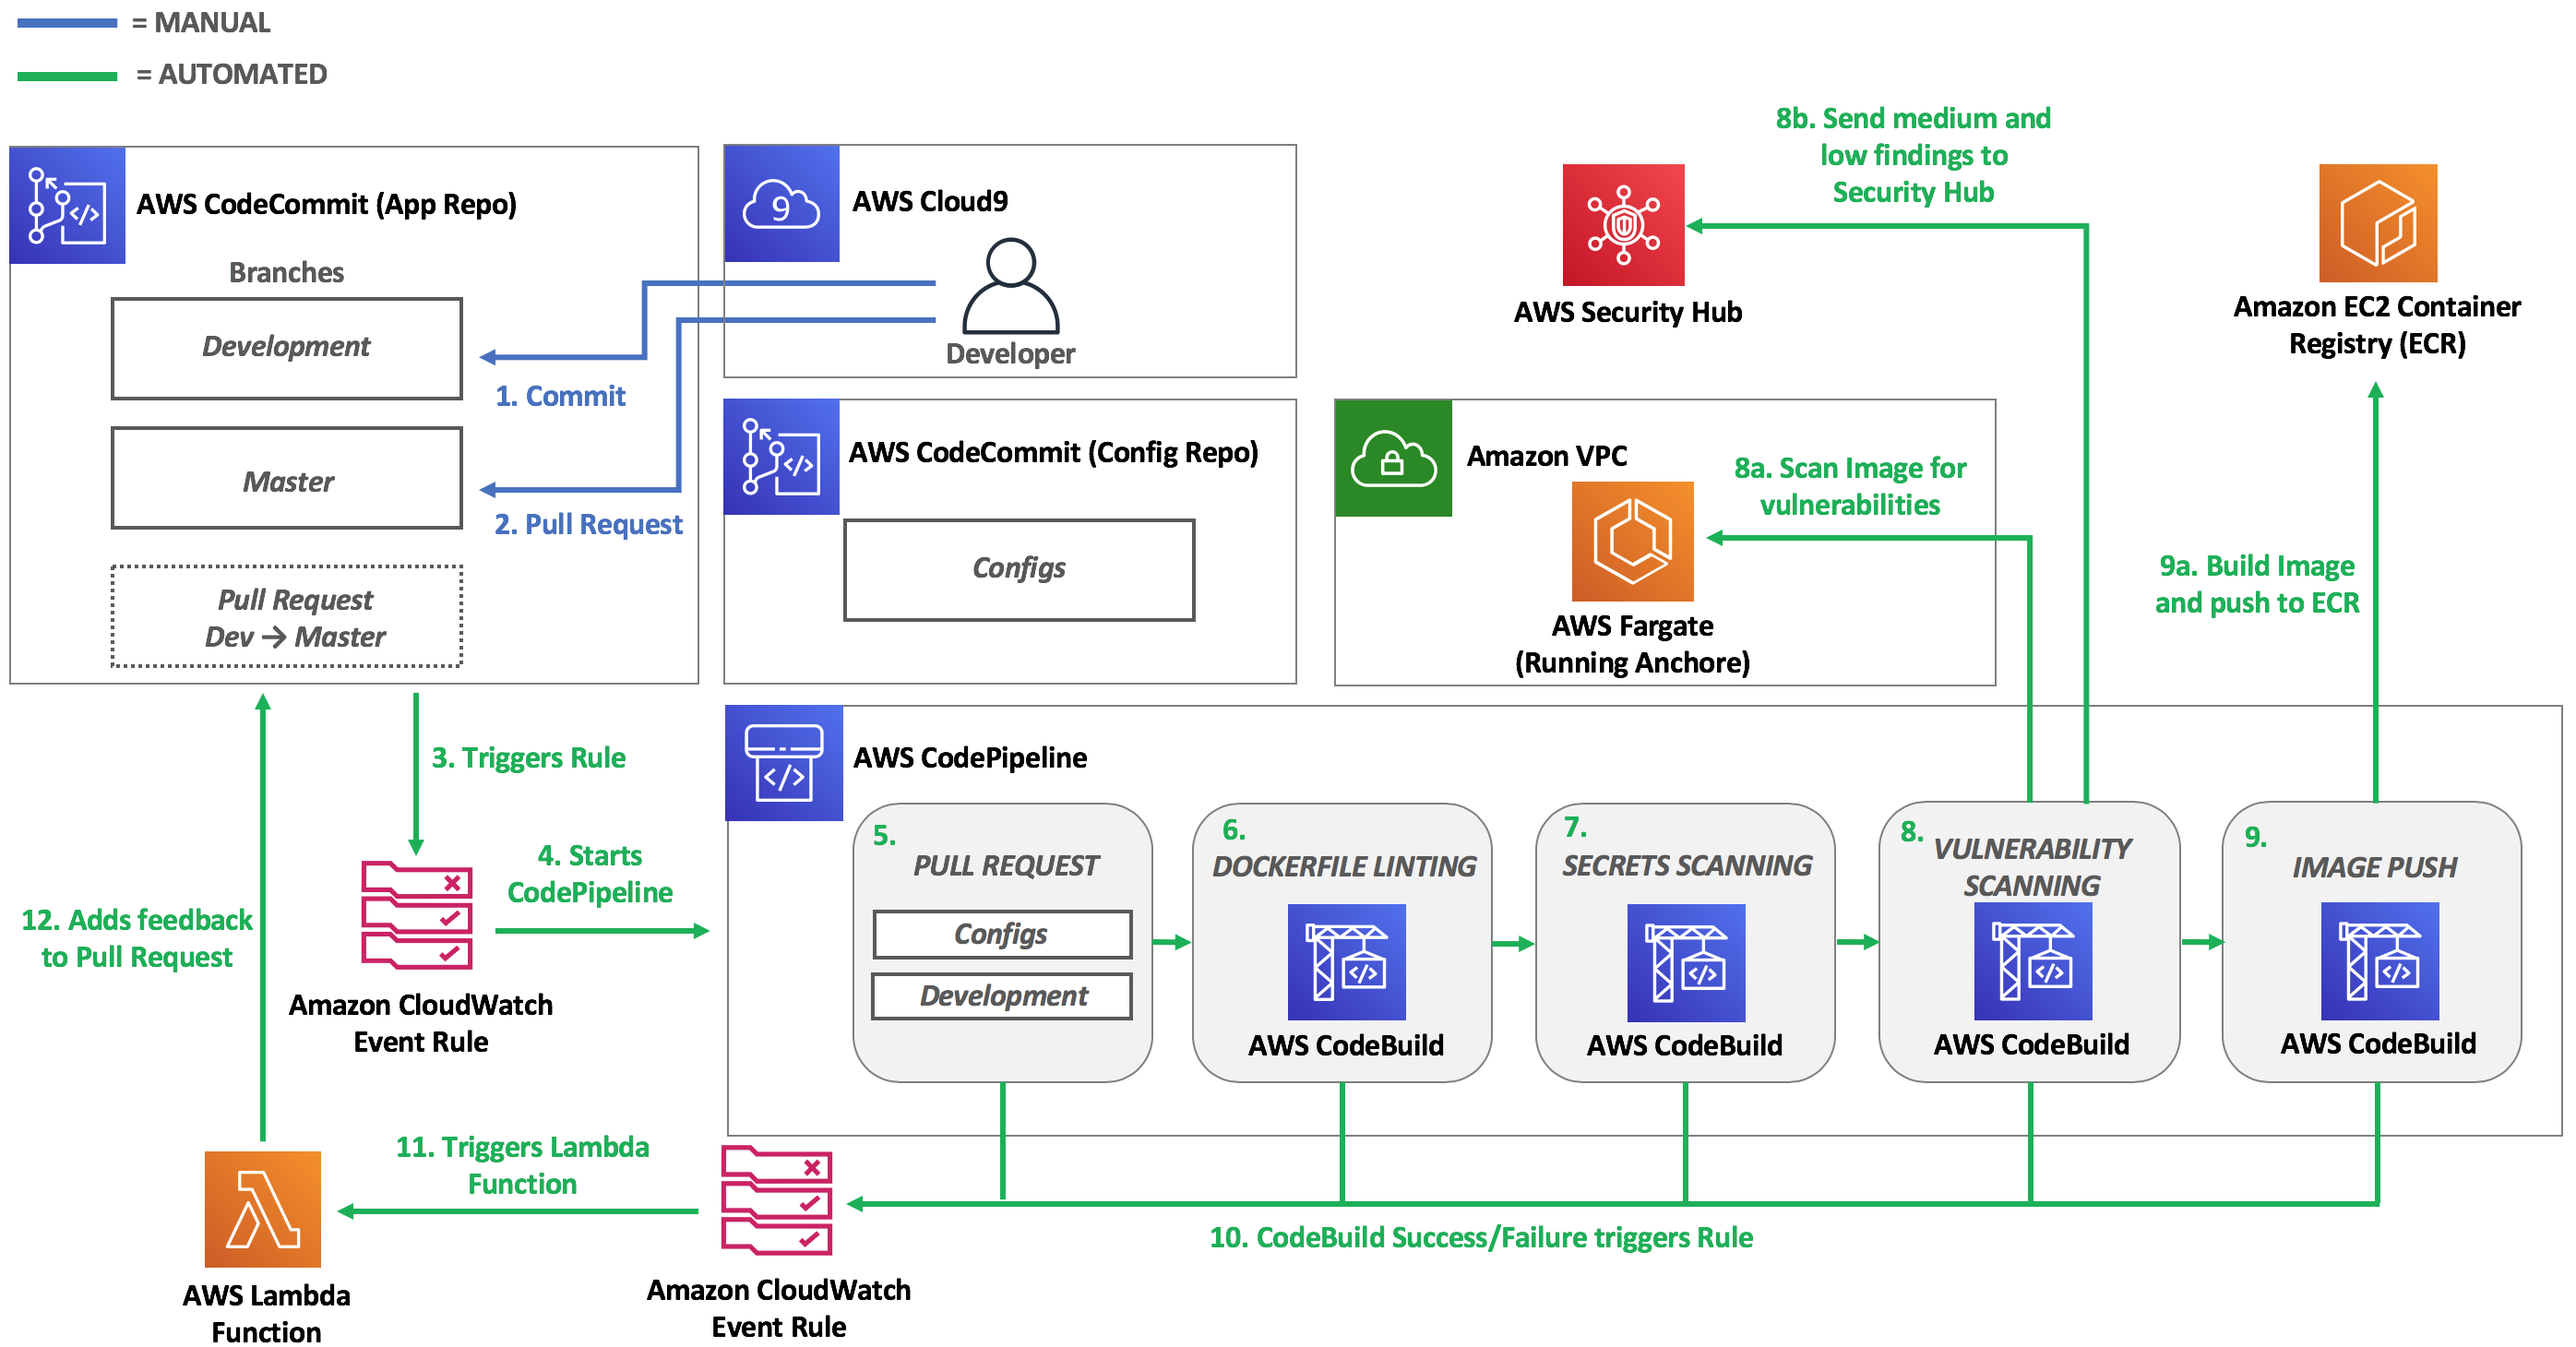
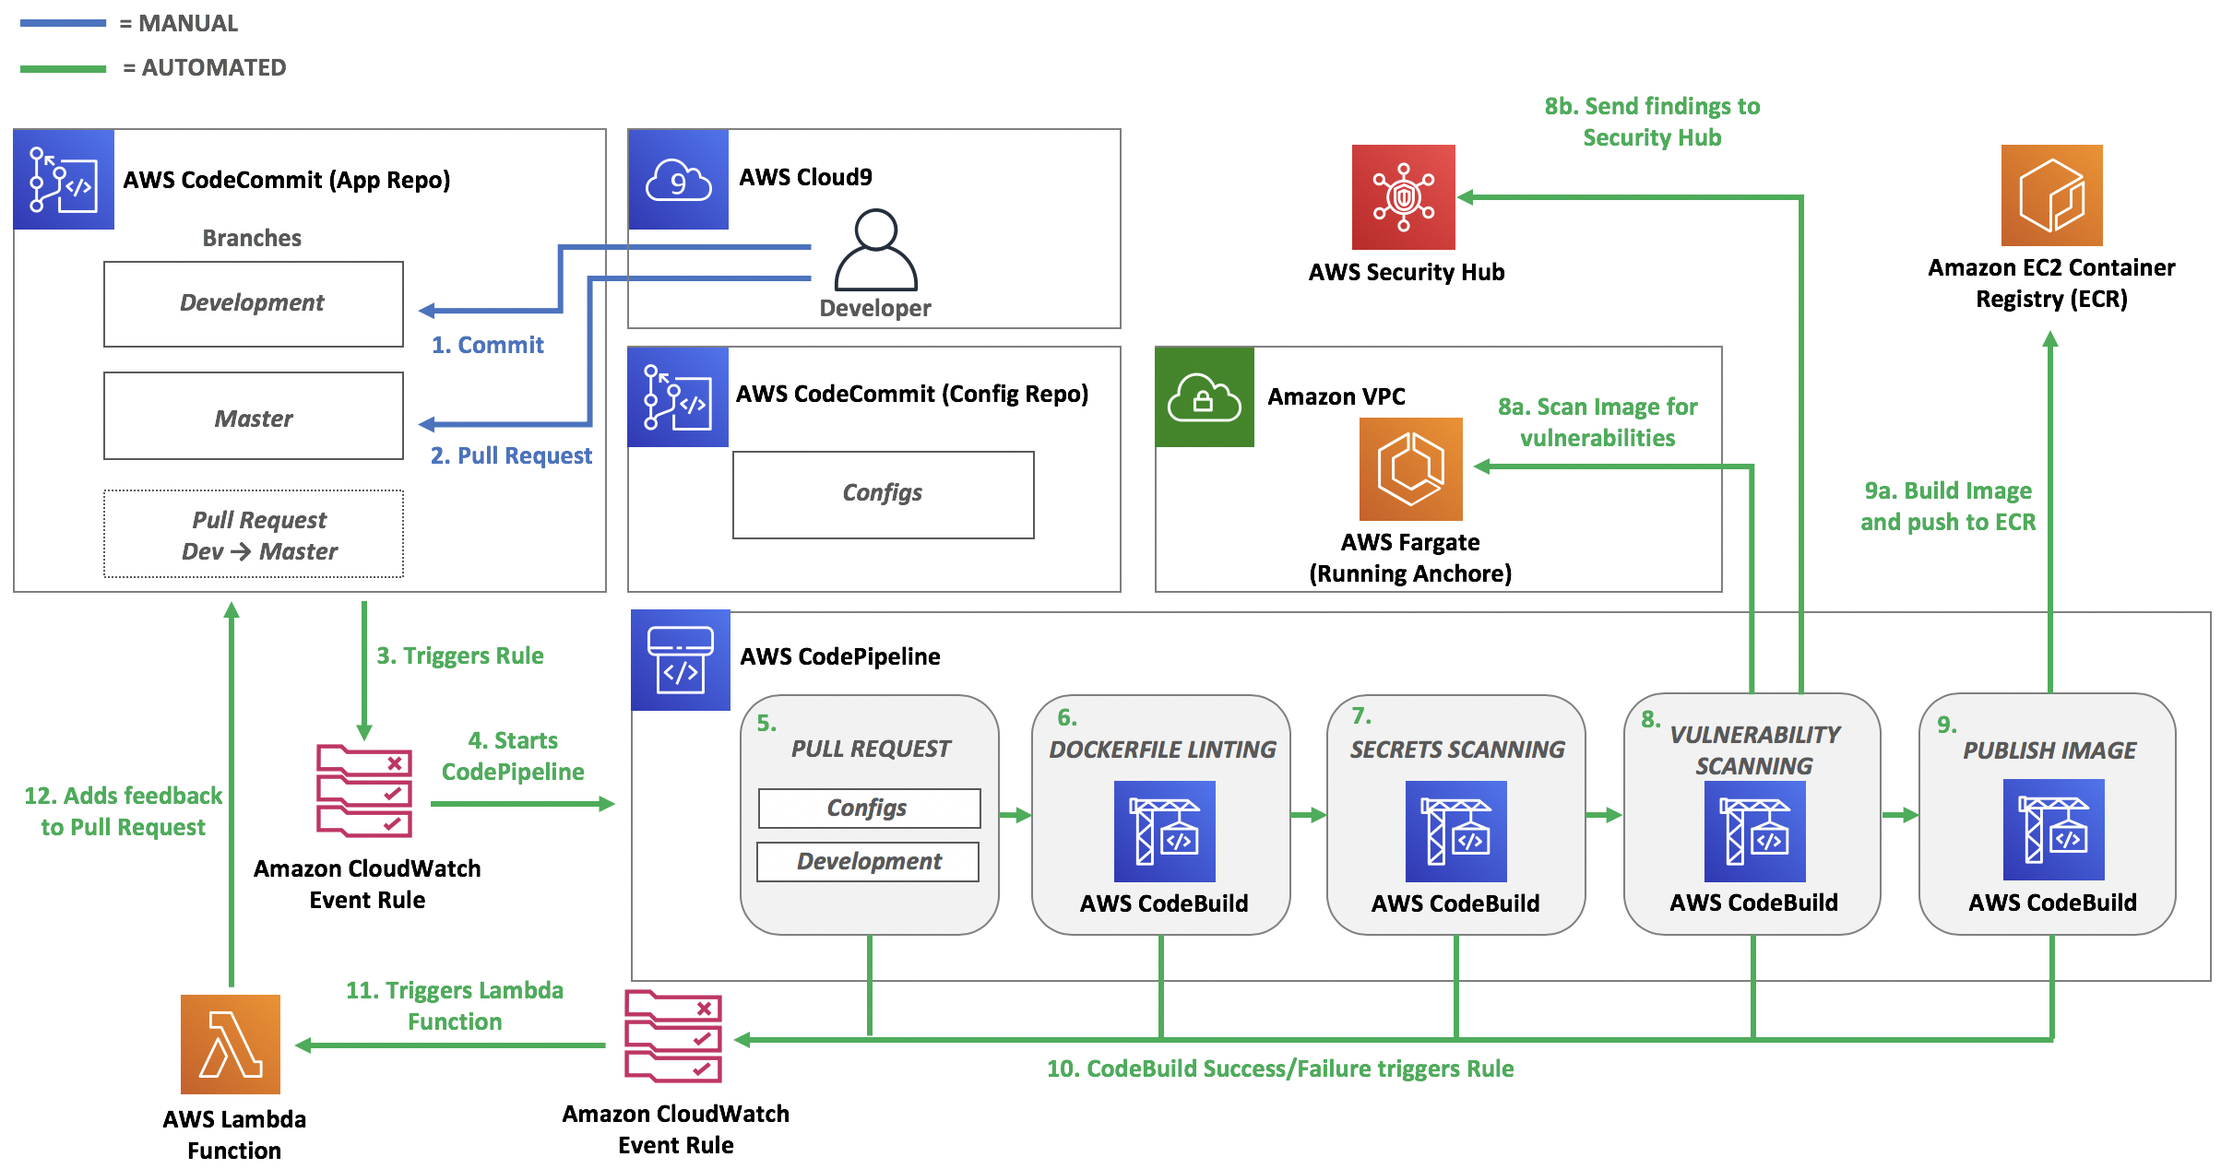
Minor modifications

diff --git a/docs/04-testing.md b/docs/04-testing.md
@@ -22,7 +22,7 @@ Now that you have integrated multiple types of security testing into your pipeli
 6. **Dockerfile Linting Stage**: The stage pulls in the artifacts from S3 and uses Hadolint (build spec file and configuration file pulled in from S3) to lint the Dockerfile to ensure it adheres to best practices.
 7.  **Secrets Scanning Stage**: The stage runs high signal regex checks directly against the CodeCommit Repository (*container-devsecops-wksp-app - development branch*)
 8.  **Vulnerability Scanning Stage**: The stage builds the container image, pushes it to ECR, and triggers an Anchore vulnerability assessment against the image.  If the scan results include any vulnerabilites that meet or exceed the threshold the build fails.  If the vulnerabilites are lower than the threshold the CodeBuild project will invoke a Lambda function with the scan results as the payload and the Lambda function will push the vulnerabilites into AWS Security Hub for future triaging since the risk for those have been accepted.
-9.  **Image Push**: The last stage builds the image using the destination commit hash as the tag and pushes it to AWS ECR.
+9.  **Publish Imaeg**: The last stage builds the image using the destination commit hash as the tag and publishes it to AWS ECR.
 10. **CodeBuild Triggers**: If any CodeBuild Project fails a CloudWatch Event Rule is triggered.
 11. **Triggers Lambda Function**: The Lambda Function is setup as a target for the CloudWatch Event Rule and is invoked after the CloudWatch Event Rule is triggered.
 12. **Adds Feedback to Pull Request**:  The Lambda Function takes the results from each stage and CodeBuild project and posts a comment back to the Pull Requst.  This gives the developers fast feedback so they're able to fix any issues that are identified through the pipeline.
@@ -117,11 +117,15 @@ Based on the feedback you received in the Pull request you can see that secrets 
 
 1. Click on **Logs** in the comment or view the CodeBuild Project history to identify the secret and the file it is located in.
     
-    !!! question "How could you improve the feedback loop to remove this step?"
+    !!! question "How could you improve the feedback loop to make it easier for the developer?"
+
+2. In the left file tree, expand the **container-devsecops-wksp-config** folder and open **secrets_config.yml**.
 
 2. Update your trufflehog configuration to only scan 1 commit deep.
 
 Change this command:
+
+
 ```
 - trufflehog --regex --rules secrets_config.json --entropy=False "$APP_REPO_URL"
 ```

diff --git a/docs/02-secrets-scanning.md b/docs/02-secrets-scanning.md
@@ -44,7 +44,7 @@ When using trufflehog you can optionally specify a configuration file that conta
 
 1.  In the left file tree, expand the **container-devsecops-wksp-config** folder and open **secrets_config.json**.
 
-3.  Paste the YAML below and save the file.
+3.  Paste the JSON below and save the file.
 
 ```json
 {
